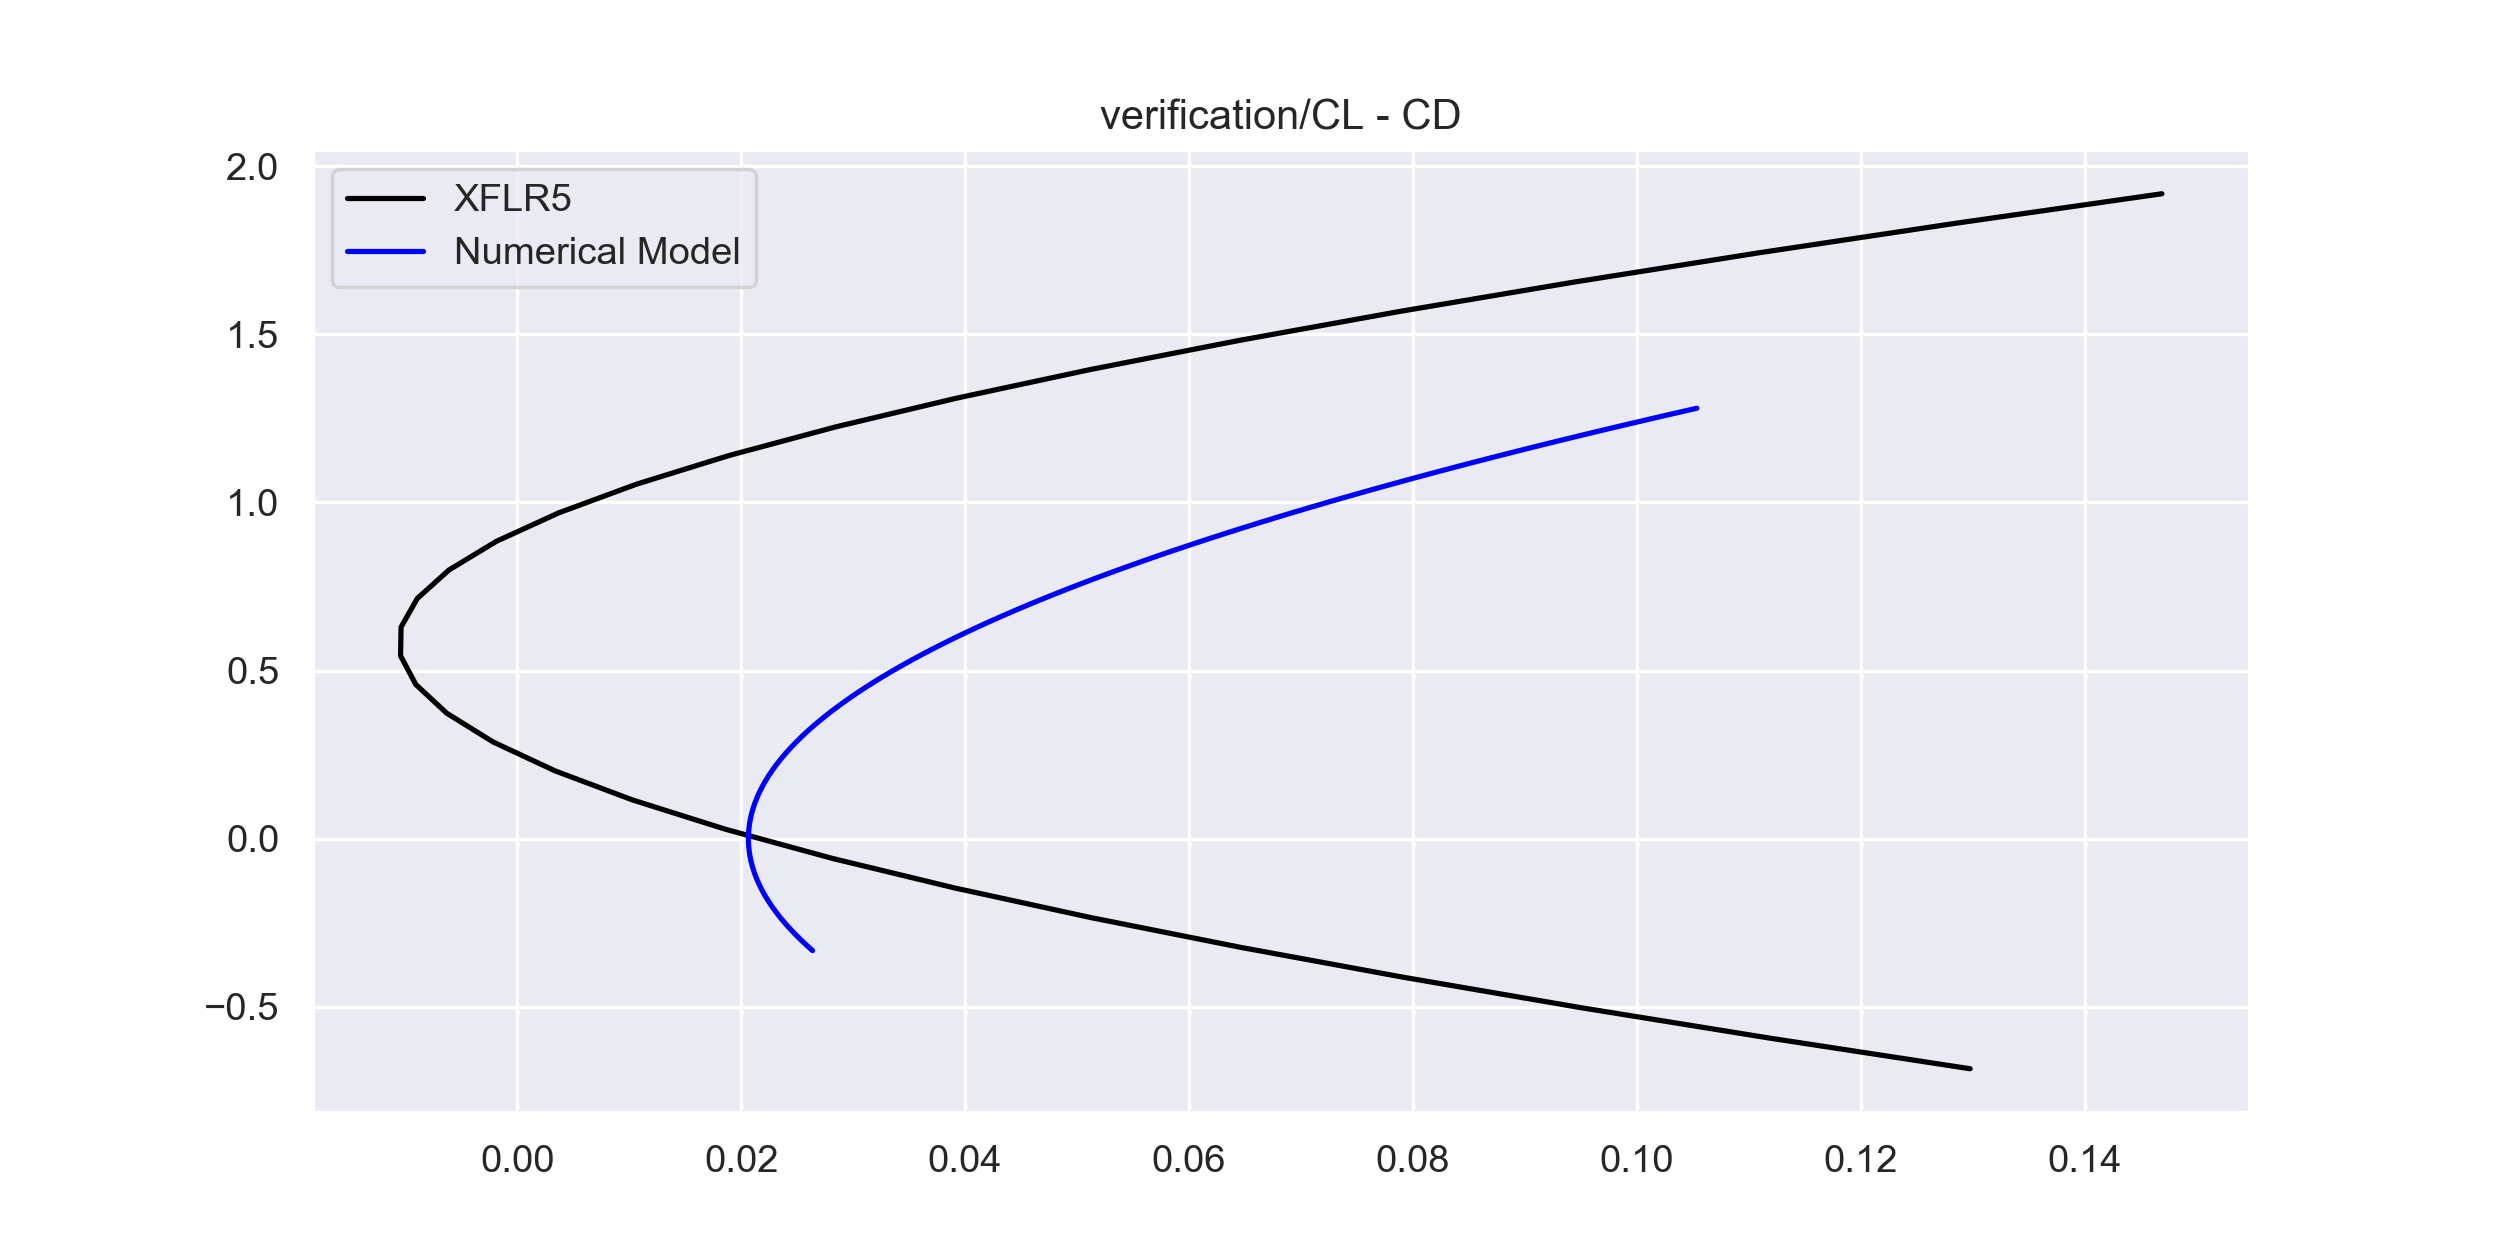
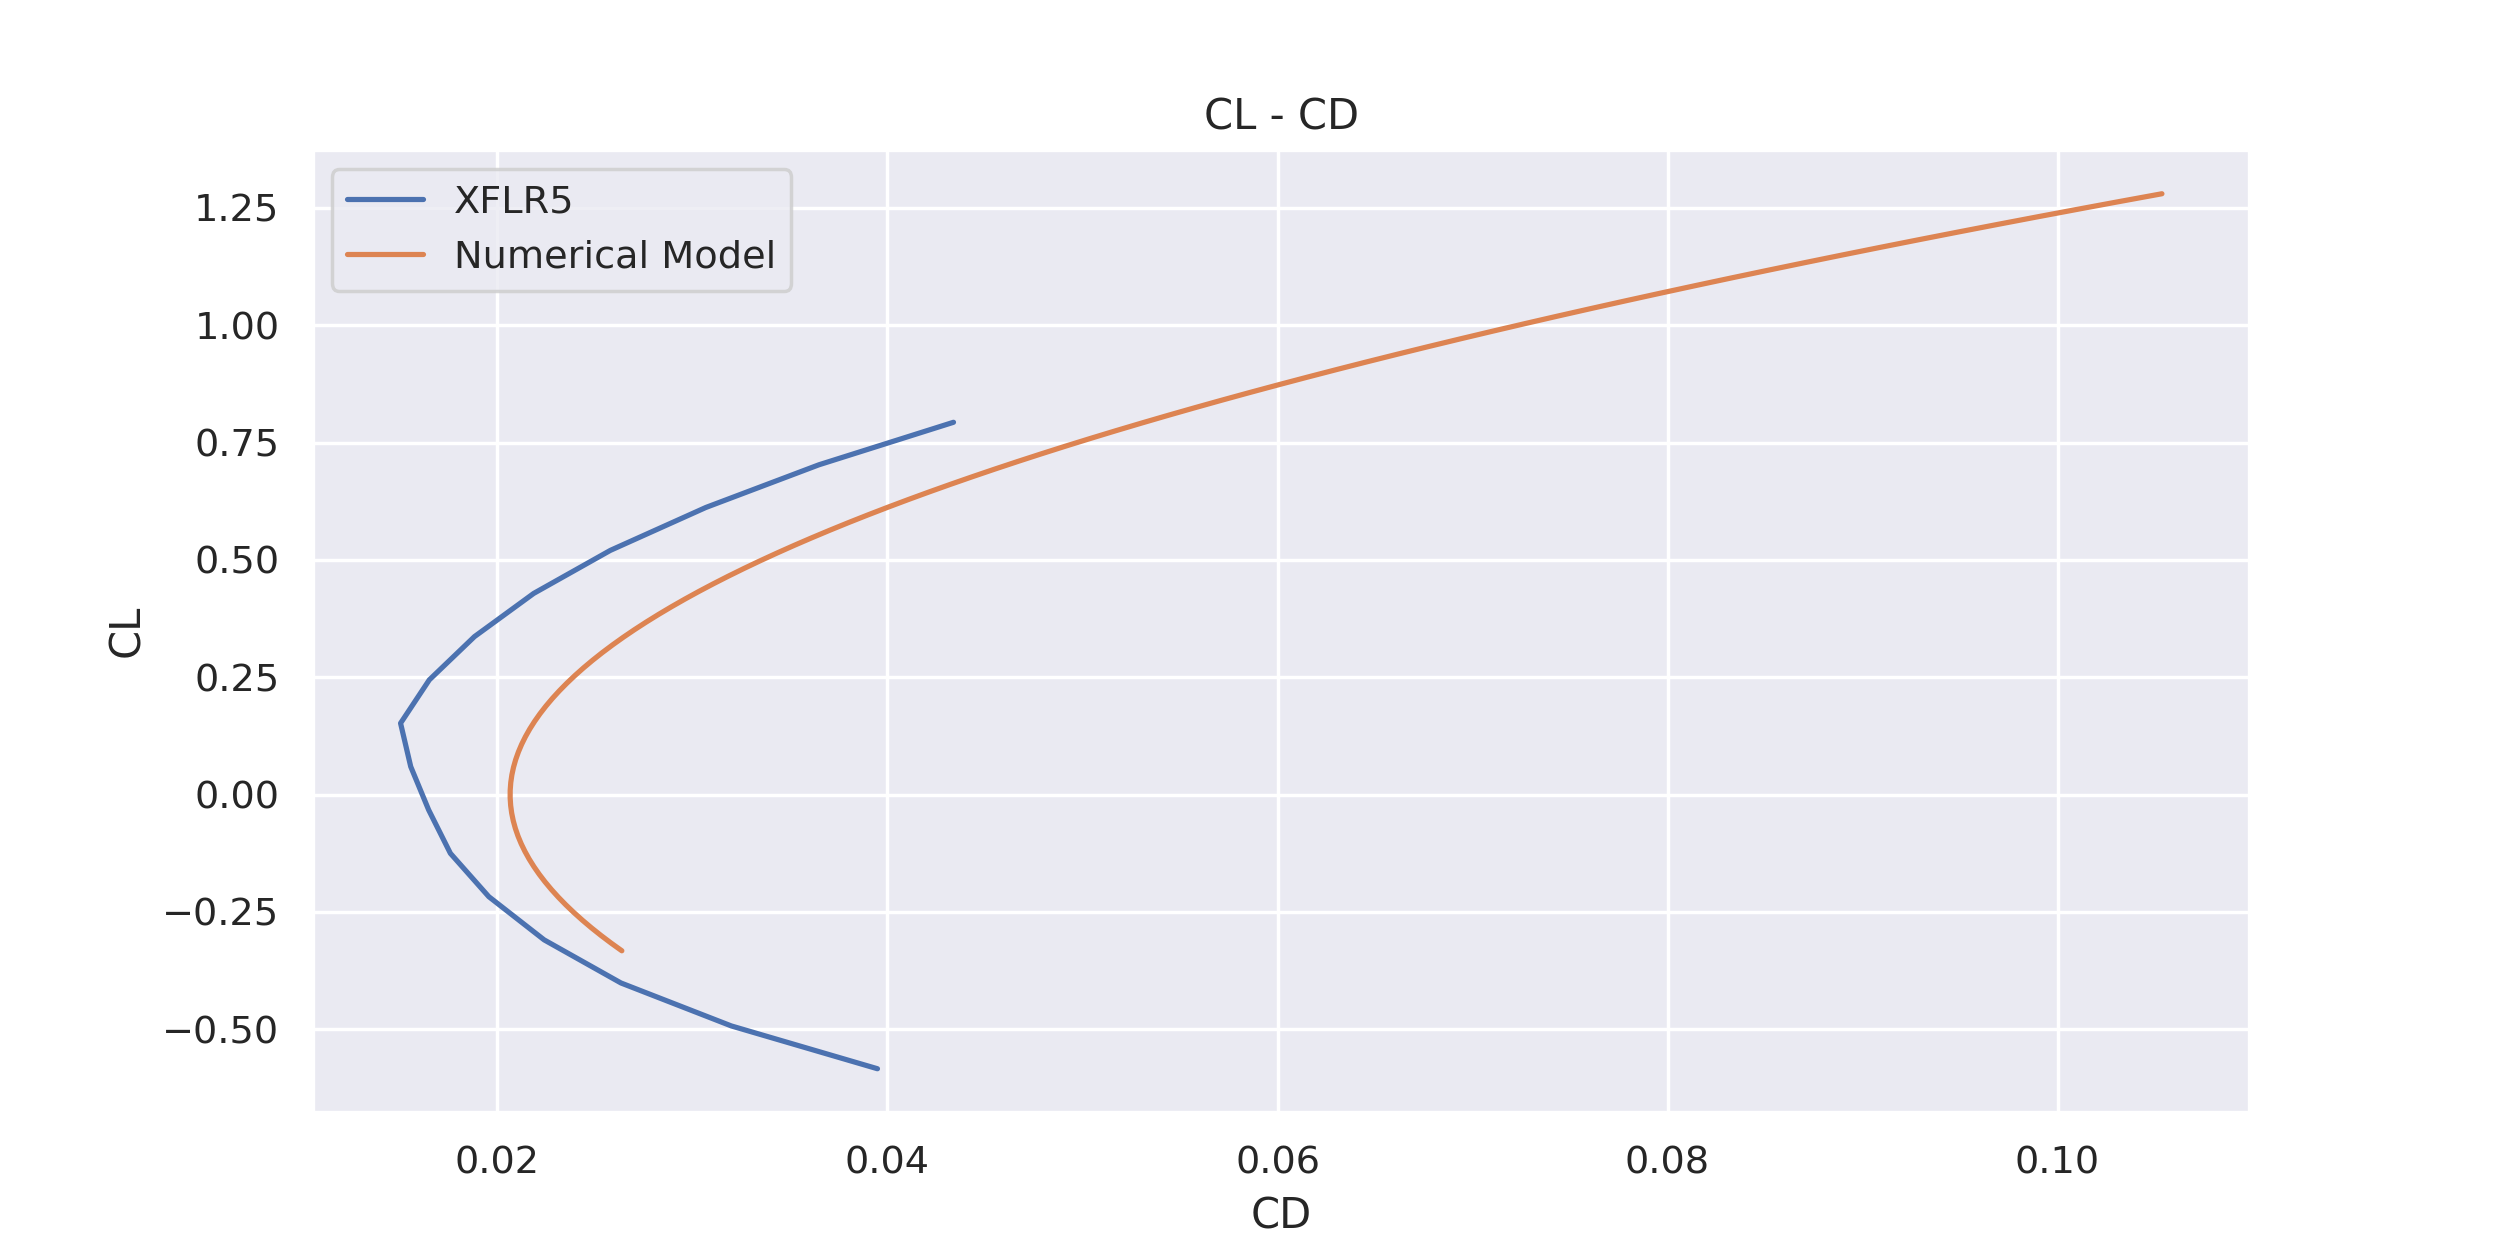
corrected plots

diff --git a/src/verification/verification_coefficients.py b/src/verification/verification_coefficients.py
@@ -6,7 +6,7 @@ Author: Pietro Campolucci
 
 # importing packages
 from src.helpers.plot import plot
-from src.parameters_calculation.clcd_clalpha_plots import CLa, CLs, alpha_, CLs_, CDs, CDs_
+from src.parameters_calculation.clcd_clalpha_plots import CLa, alpha_, CLs_, CDs_
 from src.parameters_calculation.Moment_coefs_calc import Cma, measurement_3
 import statsmodels.api as sm
 import math
@@ -62,13 +62,16 @@ def plot_simulation(filename, mach):
     alpha_lst, CL_lst, CD_lst, Cm_lst, names = open_simulation(filename, mach)
 
     # plot CL-a
-    plot([alpha_lst, alpha_], [CL_lst, CLs_], ["XFLR5", "Numerical Model"], "verification/CL - a", multi=True)
+    plot([alpha_lst, alpha_], [CL_lst, CLs_], ["XFLR5", "Numerical Model"],
+         "CL - a", ["alpha [deg]", "CL"], "verification/CL - a", multi=True)
 
     # plot CL-CD
-    plot([-np.array(CD_lst), CDs_], [CL_lst, CLs_], ["XFLR5", "Numerical Model"], "verification/CL - CD", multi=True)
+    plot([np.array(CD_lst), CDs_], [CL_lst, CLs_], ["XFLR5", "Numerical Model"],
+         "CL - CD", ["CD", "CL"], "verification/CL - CD", multi=True)
 
     # plot Cm-a
-    plot([alpha_lst, measurement_3.alphas], [Cm_lst, measurement_3.des], ["XFLR5", "Numerical Model"], "verification/Cm - a", multi=True)
+    plot([alpha_lst, measurement_3.alphas], [Cm_lst, measurement_3.des], ["XFLR5", "Numerical Model"],
+         "Cm - a", ["alpha [deg]", "Cm"],  "verification/Cm - a", multi=True)
 
     # get slopes and regression
     cla = sm.OLS(CL_lst, alpha_lst).fit().params

diff --git a/src/helpers/plot.py b/src/helpers/plot.py
@@ -11,7 +11,7 @@ import seaborn as sns
 sns.set() 
 
 
-def plot(x_array, y_array, labels, filename, multi=False):
+def plot(x_array, y_array, labels, title, axis, filename, multi=False):
     """
     Inputs:
         - x_array: a two dimensional array containing the different x datasets
@@ -25,14 +25,18 @@ def plot(x_array, y_array, labels, filename, multi=False):
     colors = ["black", "blue", "red", "orange", "green", "yellow", "pink", "purple"]
 
     plt.figure(figsize=(10, 5))
-    plt.title(filename)
+    plt.title(title)
 
     if multi:
+
         for i in range(len(x_array)):
-            plt.plot(x_array[i], y_array[i], color=colors[i], label=labels[i])
+            with sns.color_palette("rocket_r", len(x_array)):
+                plt.plot(np.array(x_array[i]), np.array(y_array[i]), label=labels[i])
 
     else:
         plt.plot(x_array, y_array, color=colors[0], label=labels)
 
+    plt.xlabel(axis[0])
+    plt.ylabel(axis[1])
     plt.legend()
     plt.savefig(filename, dpi=250)
